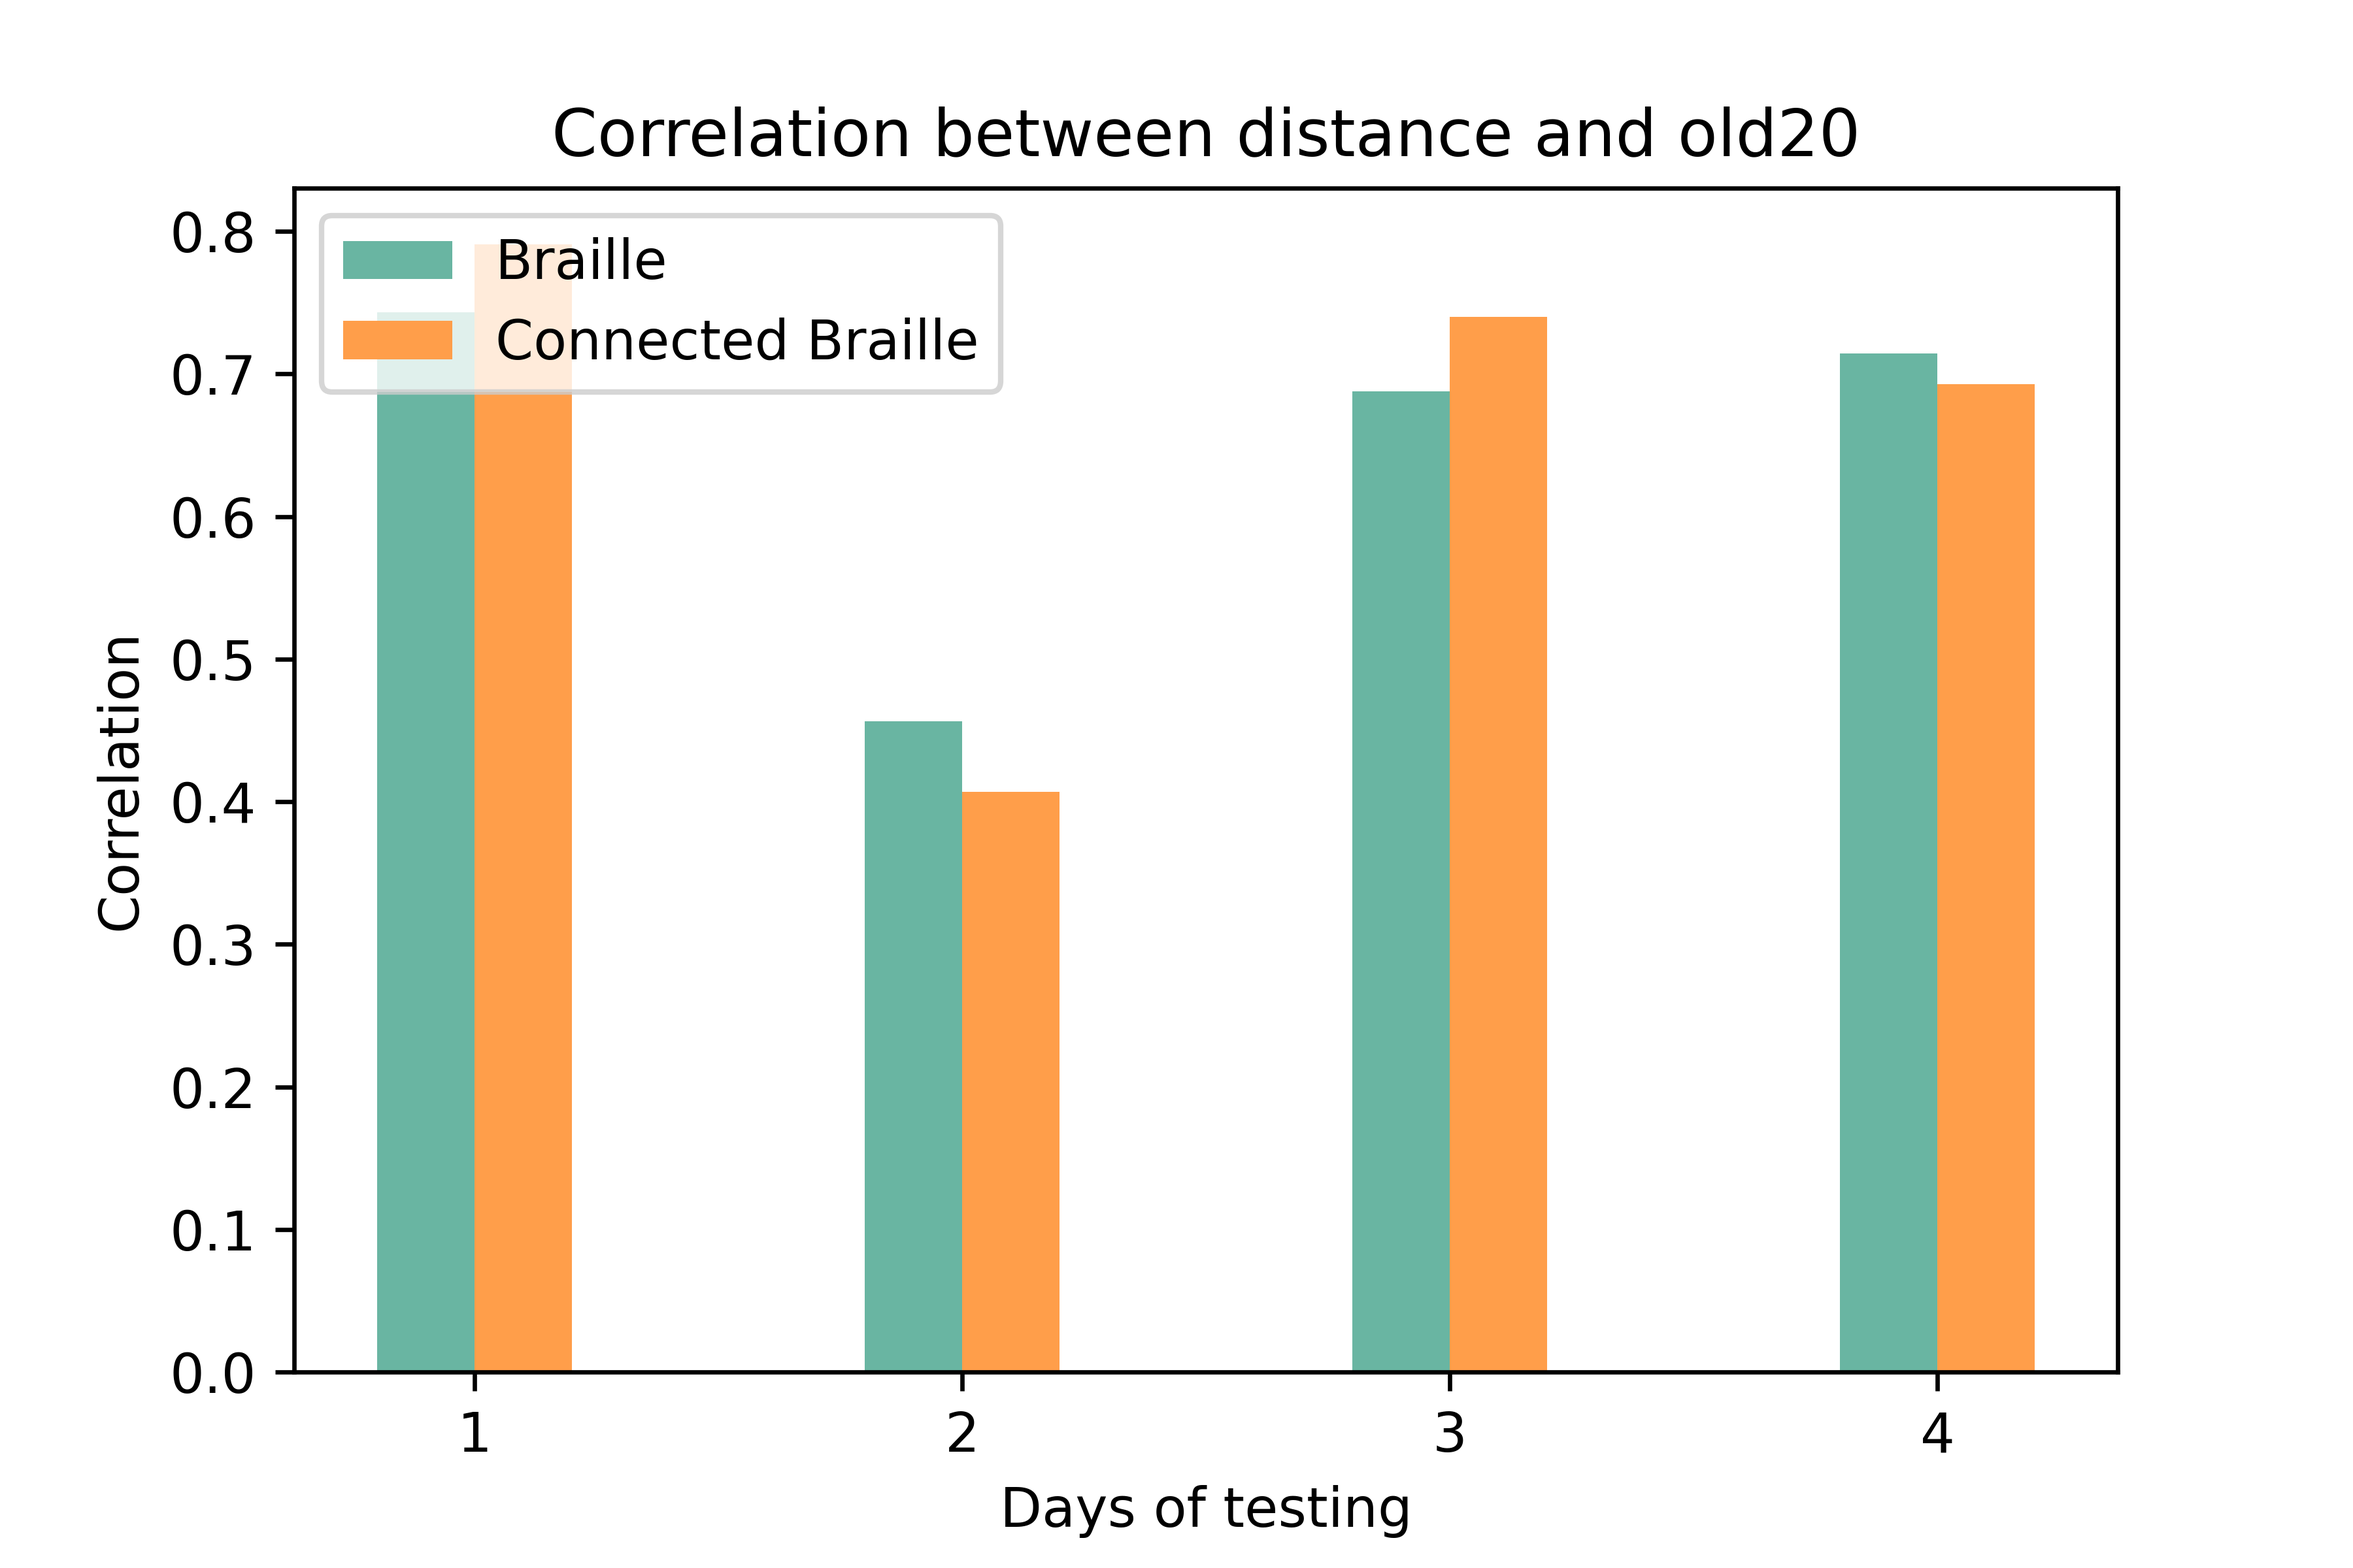
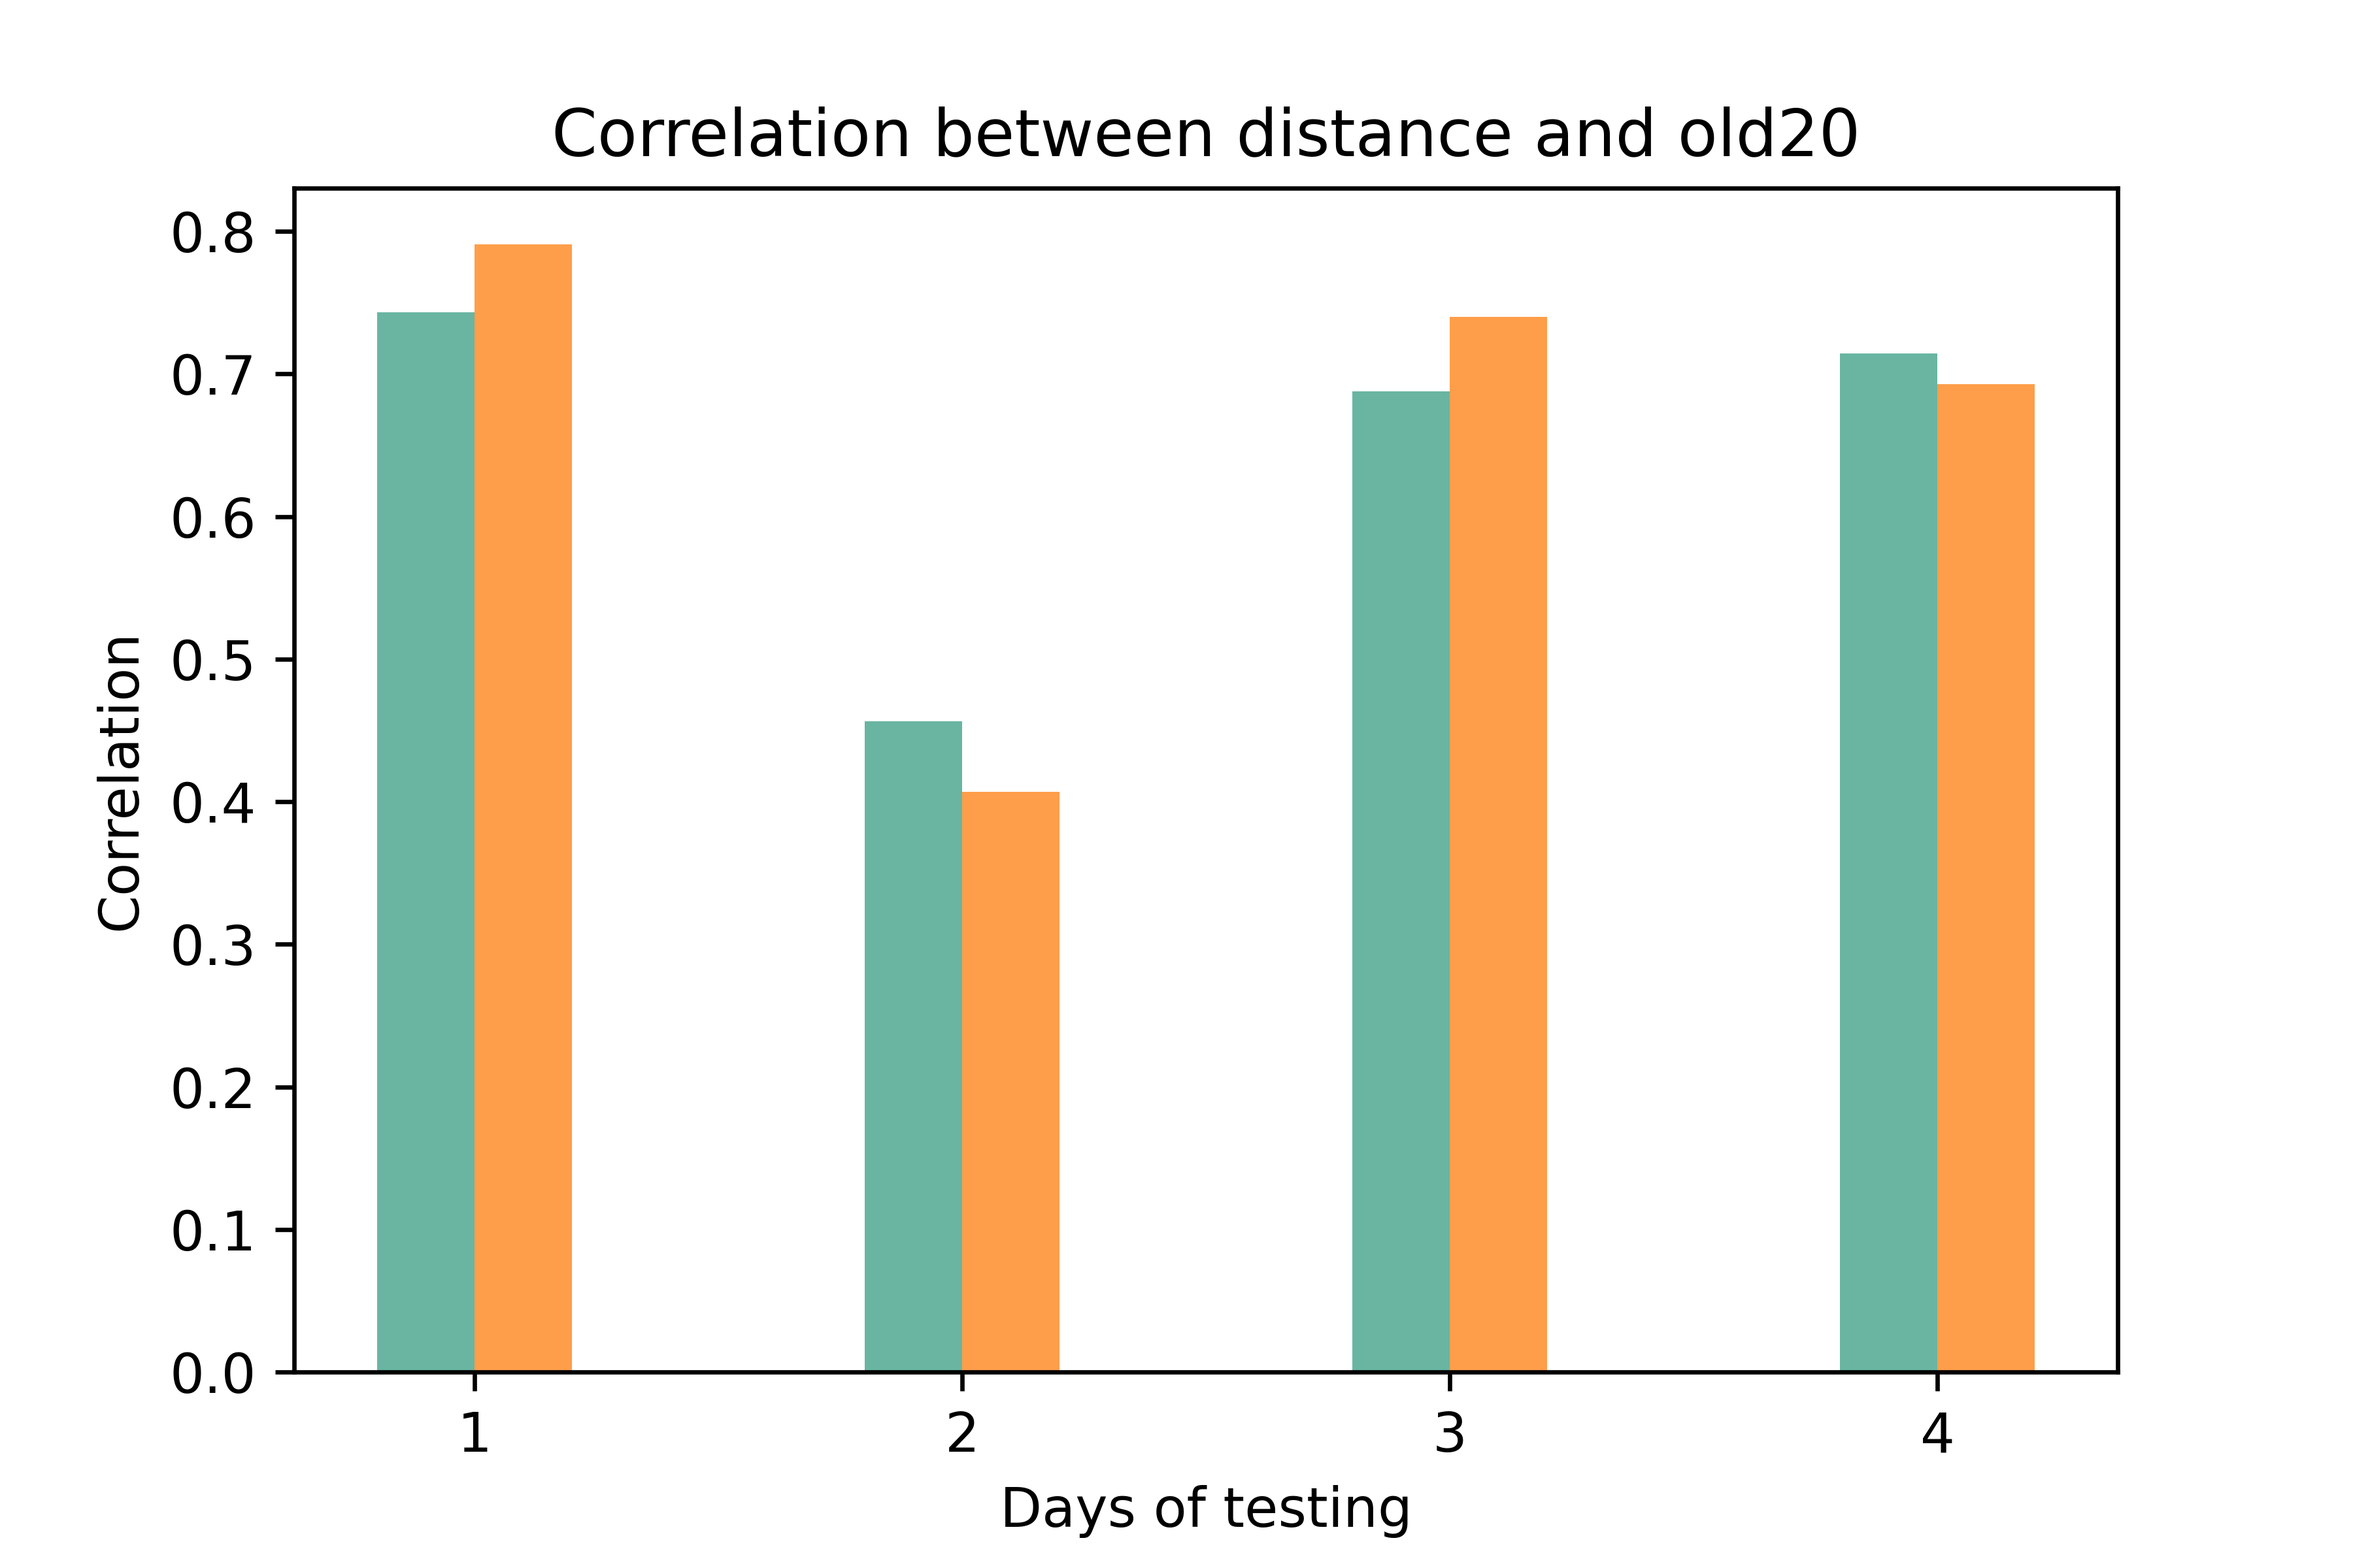
additional plots and legends

Changed region(s): [[0.1244, 0.125, 0.4356, 0.25]]

diff --git a/code/visualization/viz_accuracy_timing.py b/code/visualization/viz_accuracy_timing.py
@@ -30,20 +30,23 @@ def viz_accuracy_timing(opt):
     # - training assessment accuracy
     # - training reading time
     teAccuInfo = {'xlab': 'Days of testing', 'ylab': 'Accuracy', 'title': 'Accuracy during testing', 
-                  'legend position': 'lower right', 'output name': 'VBT_data-test_variable-accuracy_plot-descriptive.png'}
+                  'output name': 'VBT_data-test_variable-accuracy_plot-rmANOVA.png'}
     viz_plot_rmanova(opt, teAccuracy, teAccuInfo)
 
     teWriteInfo = {'xlab': 'Days of testing', 'ylab': 'Writing time', 'title': 'Writing time during testing', 
-                  'legend position': 'lower right', 'output name': 'VBT_data-test_variable-writing-time_plot-descriptive.png'}
+                  'output name': 'VBT_data-test_variable-writing-time_plot-rmANOVA.png'}
     viz_plot_rmanova(opt, teWritingTime, teWriteInfo)
     
     trAccuInfo = {'xlab': 'Days of training', 'ylab': 'Accuracy', 'title': 'Accuracy during training assessment', 
-                  'legend position': 'lower right', 'output name': 'VBT_data-training_variable-accuracy_plot-descriptive.png'}
+                  'output name': 'VBT_data-training_variable-accuracy_plot-rmANOVA.png'}
     viz_plot_rmanova(opt, trAccuracy, trAccuInfo)
     
     trReadInfo = {'xlab': 'Days of traning', 'ylab': 'Reading time', 'title': 'Reading time during training', 
-                  'legend position': 'lower right', 'output name': 'VBT_data-training_variable-reading-time_plot-descriptive.png'}
+                  'output name': 'VBT_data-training_variable-reading-time_plot-rmANOVA.png'}
     viz_plot_rmanova(opt, trReadingTime, trReadInfo)
+    
+    # Plot a big legend
+    viz_plot_circle_legend(opt)
 
 
 
@@ -77,12 +80,46 @@ def viz_plot_rmanova(opt, res, information):
     # Customize x-axis ticks, accoid half-days
     plt.xticks(res['day'].unique())
     
-    # Move the legend to the bottom-right corner
-    plt.legend(loc = information['legend position'])
-    
     # Save plot
     filename = os.path.join(opt['dir']['figures'], information['output name'])
     plt.savefig(filename, dpi = 600)
     
     # Display the plot
     plt.show()
+    
+
+# Plot a big legend with only dots
+def viz_plot_circle_legend(opt):
+    
+    # Create a figure with a specific size
+    plt.figure(figsize=(10, 6))  
+    
+    # Custom legend handles
+    legend_handles = [plt.Line2D([], [], marker='o', color='w', markersize = 40, markerfacecolor='#69B5A2'),
+                      plt.Line2D([], [], marker='o', color='w', markersize = 40, markerfacecolor='#FF9E4A')]
+    legend_labels = ['Braille', 'Connected Braille']
+    
+    
+    # Move the legend to the bottom-right corner
+    plt.legend(legend_handles, legend_labels, loc = 'best', fontsize = 40, handlelength = .5)
+    
+    # Hide the axes
+    plt.axis('off')
+    
+    # Save plot
+    filename = os.path.join(opt['dir']['figures'], 'VBT_legend-circles.png')
+    plt.savefig(filename, dpi = 600, bbox_inches = 'tight')
+    
+    # Display the plot
+    plt.show()
+    
+    
+    
+    
+    
+    
+    
+    
+    
+    
+    

diff --git a/code/visualization/viz_stimuli_statistics.py b/code/visualization/viz_stimuli_statistics.py
@@ -50,6 +50,8 @@ def viz_stimuli_statistics(opt):
     teInfo = {'xlab': 'Days of testing', 'ylab': 'Correlation', 'legend position': 'lower right'}
     viz_plot_test_correlations(opt, teCorrAvgs, teInfo)
     
+    viz_plot_square_legend(opt)
+    
     
 
 
@@ -118,7 +120,7 @@ def viz_plot_correlations(opt, subset, params):
     # Adjust
     # - x axis
     plt.xlabel(params['xlab'])
-    plt.xticks([pos + width/2 for pos in x_pos], subset['session'].unique())
+    plt.xticks([pos for pos in x_pos], subset['session'].unique())
 
     # - y-axis
     plt.ylabel(params['ylab'])
@@ -152,10 +154,6 @@ def viz_plot_correlations(opt, subset, params):
     #         plt.text(i + width/2, height - 0.5, '**', ha = 'center')
     #     else:
     #         plt.text(i + width/2, height - 0.5, '***', ha = 'center')
-
-
-    # Adding legend
-    plt.legend()
     
     # Save plot
     savename = ('VBT_data-test_variable-' + params['behavioural variable'] + 
@@ -163,6 +161,33 @@ def viz_plot_correlations(opt, subset, params):
                 '_plot-correlation-' + params['statistic'] + '.png')
     savepath = os.path.join(opt['dir']['figures'], savename)
     plt.savefig(savepath, dpi = 600)
+    
+    # Display the plot
+    plt.show()
+    
+    
+# Make legend with squares
+# Plot a big legend with only dots
+def viz_plot_square_legend(opt):
+    
+    # Create a figure with a specific size
+    plt.figure(figsize=(10, 6))  
+    
+    # Custom legend handles
+    legend_handles = [plt.Line2D([], [], marker = 's', color = 'w', markersize = 40, markerfacecolor = '#69B5A2'),
+                      plt.Line2D([], [], marker = 's', color = 'w', markersize = 40, markerfacecolor = '#FF9E4A')]
+    legend_labels = ['Braille', 'Connected Braille']
+    
+    
+    # Move the legend to the bottom-right corner
+    plt.legend(legend_handles, legend_labels, loc = 'best', fontsize = 40, handlelength = .5)
+    
+    # Hide the axes
+    plt.axis('off')
+    
+    # Save plot
+    filename = os.path.join(opt['dir']['figures'], 'VBT_legend-squares.png')
+    plt.savefig(filename, dpi = 600, bbox_inches = 'tight')
     
     # Display the plot
     plt.show()
